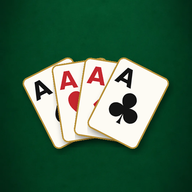
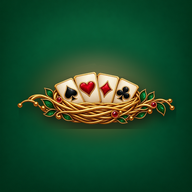
Add files via upload

Changed region(s): [[0.0938, 0.25, 0.9062, 0.8125], [0.0938, 0.5312, 0.125, 0.5625]]

diff --git a/index.html b/index.html
@@ -180,7 +180,12 @@ input.in,select.in{width:100%;min-height:48px;border-radius:12px;border:1.5px so
 .soon{margin:12px 2px 0;font-size:13px;color:var(--muted);text-align:center}
 .hero .heroArt2{position:absolute;inset-inline-end:8px;bottom:-26px;width:150px;height:110px;pointer-events:none}
 .hero .heroArt2 .pc{position:absolute;bottom:0;left:50%;transform-origin:50% 130%;--w:52px}
-.hero p{max-width:calc(100% - 140px)}
+.hero p{max-width:none}
+.hero .heroArt{display:block;width:min(86%,320px);margin:6px auto -12px;position:relative;filter:drop-shadow(0 6px 10px rgba(0,0,0,.45));pointer-events:none}
+.hlogo{height:46px;width:auto;flex:1 1 auto;min-width:0;object-fit:contain;filter:drop-shadow(0 2px 4px rgba(0,0,0,.5))}
+.daily img.ic{width:48px;height:48px;object-fit:contain;flex:none}
+.game .gimg{width:54px;height:54px;object-fit:contain;flex:none;filter:drop-shadow(0 2px 3px rgba(0,0,0,.4))}
+.gh{display:flex;align-items:center;gap:8px}.gh img{width:34px;height:34px;object-fit:contain}
 /* ---------------- overlays ---------------- */
 #ovs .ov{position:fixed;inset:0;z-index:50;background:rgba(0,0,0,.6);display:flex;align-items:flex-end;justify-content:center;padding:12px;padding-bottom:calc(12px + env(safe-area-inset-bottom,0px));animation:fadeIn .18s ease}
 @keyframes fadeIn{from{opacity:0}to{opacity:1}}
@@ -234,14 +239,15 @@ input.in,select.in{width:100%;min-height:48px;border-radius:12px;border:1.5px so
   <div class="home">
     <div class="htop">
       <div class="tools"><button class="ibtn" id="hTheme" aria-label="theme">🎨</button><button class="ibtn" id="hMode" aria-label="day/night">🌙</button></div>
+      <img class="hlogo" src="img/logo.webp" alt="SolitaireNest">
       <div class="tools"><button class="ibtn" id="hLang" aria-label="language">🌐</button><button class="ibtn" id="hAbout" aria-label="about">ℹ</button></div>
     </div>
     <div class="hero">
-      <div class="heroArt2" id="heroFan"></div>
       <h1>SolitaireNest<small data-t="appName"></small></h1>
       <p data-t="tagline"></p>
+      <img class="heroArt" src="img/hero.webp" alt="" decoding="async">
     </div>
-    <button class="daily" id="mDaily"><span class="ic">📅</span><span><b data-t="daily"></b><span id="dSub"></span></span><span class="stk" id="dStreak"></span></button>
+    <button class="daily" id="mDaily"><img class="ic" src="img/daily.webp" alt=""><span><b data-t="daily"></b><span id="dSub"></span></span><span class="stk" id="dStreak"></span></button>
     <button class="mode main hide" id="mCont" style="width:100%;margin-bottom:12px"><span class="ic">▶</span><span><b data-t="continue"></b><span id="mContSub"></span></span></button>
     <div class="games" id="games"></div>
     <p class="soon" data-t="soon"></p>
@@ -735,7 +741,7 @@ const KWIN = { 1: [4,8,12,16,18,19,20,21,22,23,29,31,33,36,37,39,42,47,50,53,54,
 /* =====================================================================
    SolitaireNest — app core (storage · settings · screens · cards · sound · backup)
    ===================================================================== */
-const APP_VERSION = '1.1.0';
+const APP_VERSION = '1.1.1';
 const $ = s => document.querySelector(s), $$ = s => Array.from(document.querySelectorAll(s));
 const esc = s => String(s == null ? '' : s).replace(/[&<>"']/g, c => ({ '&': '&amp;', '<': '&lt;', '>': '&gt;', '"': '&quot;', "'": '&#39;' }[c]));
 const P = 'sol_';
@@ -1587,10 +1593,7 @@ function dailyStreak() {
 function renderHome() {
   applyLang();
   $('#verLbl').textContent = 'v' + APP_VERSION;
-  $('#heroFan').innerHTML = [0, 13, 26, 39].map((c, i) => cardHTML(c, '', 'style="transform:translateX(-50%) rotate(' + (-24 + i * 16) + 'deg)"')).join('');
-  const mini = (cs, dx, dy) => cs.map((c, i) => cardHTML(c, '', 'style="left:' + (6 + i * dx) + 'px;top:' + (2 + i * dy) + 'px"')).join('');
-  const ICN = { klondike: [[25, 11, 36], 0, 9], freecell: [[13, 9, 34], 10, 4], spider: [[12, 11, 10], 6, 6], pyramid: [[5, 20, 44], 9, 0], tripeaks: [[30, 4, 45], 8, -3], golf: [[2, 15, 41], 9, 3], canfield: [[19, 32, 6], 3, 3], yukon: [[51, 23, 49], 2, 9] };
-  if (!$('#games').children.length) $('#games').innerHTML = GAME_KEYS.map(g => '<button class="game" data-g="' + g + '"><span class="gi">' + mini(...ICN[g]) + '</span><span class="gt"><b>' + esc(GNAME(g)) + '</b><span class="gs"></span></span></button>').join('');
+  if (!$('#games').children.length) $('#games').innerHTML = GAME_KEYS.map(g => '<button class="game" data-g="' + g + '"><img class="gimg" src="img/g-' + g + '.webp" alt=""><span class="gt"><b>' + esc(GNAME(g)) + '</b><span class="gs"></span></span></button>').join('');
   $$('#games [data-g] b').forEach(b => b.textContent = GNAME(b.closest('[data-g]').dataset.g));
   const c = $('#mCont');
   if (G && G.S && !G.S.won && G.started) { c.classList.remove('hide'); $('#mContSub').textContent = gameTitle(G.S.g, G.S.opt) + ' · ' + T('movesN', NF(G.S.moves)); }
@@ -1611,7 +1614,7 @@ function setupBox(g) {
   let draw = g === 'canfield' ? (ST.cDraw || 3) : ST.kDraw, suits = ST.sSuits, win = ST.kWin, score = ST.kScore;
   const o = overlay('<div id="suB"></div>');
   function draw_() {
-    let h = '<h3>' + GICON[g] + ' ' + esc(GNAME(g)) + '</h3><p class="muted">' + esc(T('g' + g[0].toUpperCase() + g.slice(1) + 'Long')) + '</p>';
+    let h = '<h3 class="gh"><img src="img/g-' + g + '.webp" alt="">' + esc(GNAME(g)) + '</h3><p class="muted">' + esc(T('g' + g[0].toUpperCase() + g.slice(1) + 'Long')) + '</p>';
     if (g === 'klondike') {
       h += '<label class="f">' + esc(T('drawLbl')) + '</label><div class="seg" data-sk="draw"><button data-v="1" class="' + (draw === 1 ? 'on' : '') + '">' + esc(T('draw1')) + '</button><button data-v="3" class="' + (draw === 3 ? 'on' : '') + '">' + esc(T('draw3')) + '</button></div><p class="sub">' + esc(T(draw === 3 ? 'draw3Sub' : 'draw1Sub')) + '</p>';
       h += '<label class="f">' + esc(T('scoringLbl')) + '</label><div class="seg" data-sk="score">' + [['std', 'scStd'], ['vegas', 'scVegas'], ['none', 'scNone']].map(([v, l]) => '<button data-v="' + v + '" class="' + (score === v ? 'on' : '') + '">' + esc(T(l)) + '</button>').join('') + '</div><p class="sub">' + esc(T(score === 'vegas' ? 'scVegasSub' : score === 'none' ? 'scNoneSub' : 'scStdSub')) + '</p>';
@@ -1678,7 +1681,7 @@ function renderStats() {
   const KEYS = [['klondike1', T('gKlondike') + ' · ' + T('draw1')], ['klondike3', T('gKlondike') + ' · ' + T('draw3')], ['freecell', T('gFreecell')], ['spider1', T('gSpider') + ' · ' + T('suitsN', 1)], ['spider2', T('gSpider') + ' · ' + T('suitsN', 2)], ['spider4', T('gSpider') + ' · ' + T('suitsN', 4)], ['pyramid', T('gPyramid')], ['tripeaks', T('gTripeaks')], ['golf', T('gGolf')], ['canfield3', T('gCanfield') + ' · ' + T('draw3')], ['canfield1', T('gCanfield') + ' · ' + T('draw1')], ['yukon', T('gYukon')]];
   for (const [k, lab] of KEYS) {
     const b = S[k]; if (!b || !b.played) continue;
-    h += '<div class="card"><h3>' + GICON[k.replace(/\d/g, '')] + ' ' + esc(lab) + '</h3><table class="tbl">' +
+    h += '<div class="card"><h3 class="gh"><img src="img/g-' + k.replace(/\d/g, '') + '.webp" alt="">' + esc(lab) + '</h3><table class="tbl">' +
       '<tr><td>' + esc(T('gamesWon')) + '</td><td>' + iso(NF(b.won) + ' / ' + NF(b.played)) + '</td><td>' + pct(b.won, b.played) + '</td></tr>' +
       (b.best ? '<tr><td>' + esc(T('bestT')) + '</td><td>' + fmtT(b.best * 1000) + '</td><td></td></tr>' : '') +
       (b.won ? '<tr><td>' + esc(T('avgT')) + '</td><td>' + fmtT(b.time / b.won * 1000) + '</td><td></td></tr>' : '') +

diff --git a/sw.js b/sw.js
@@ -20,9 +20,10 @@
 })();
 
 /* SolitaireNest service worker — bump VERSION on every upload */
-const VERSION = 'solitairenest-v2';
+const VERSION = 'solitairenest-v3';
 const SHELL = ['./', 'manifest.json', 'icon-192.png', 'icon-512.png', 'privacy_policy.html',
-  'img/back-blue.webp', 'img/back-red.webp', 'img/felt.webp', 'img/face-j.webp', 'img/face-q.webp', 'img/face-k.webp', 'img/win.webp'];
+  'img/back-blue.webp', 'img/back-red.webp', 'img/felt.webp', 'img/face-j.webp', 'img/face-q.webp', 'img/face-k.webp', 'img/win.webp',
+  'img/logo.webp', 'img/hero.webp', 'img/daily.webp', ...['klondike', 'freecell', 'spider', 'pyramid', 'tripeaks', 'golf', 'canfield', 'yukon'].map(g => 'img/g-' + g + '.webp')];
 const ROOT = new URL('./', self.registration.scope).href;
 
 self.addEventListener('install', e => {
